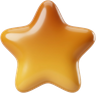
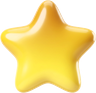
Persuasion tags: brighter, yellower 3D star (less brown)

diff --git a/current-funnel/ptags-exp.css b/current-funnel/ptags-exp.css
@@ -87,7 +87,7 @@
 @media (prefers-reduced-motion:reduce){.rail .pt-sw,.rail .pt-sw i{transition:none}}
 .rail .pt-ugc--off{opacity:.55}
 .p4-list li .p3-ic{color:var(--icon-information,#2c5ef6)}
-.p4-list li .p4-star,.p4-list li .p4-check{width:16px;height:16px;padding:2px;object-fit:contain;filter:drop-shadow(0 1px 1px rgba(60,40,0,.25))} /* 3D icons: the glyph sits smaller inside the 16px box (2026-10-14) */
+.p4-list li .p4-star,.p4-list li .p4-check{width:16px;height:16px;padding:2px;object-fit:contain;filter:drop-shadow(0 1px 1px rgba(150,100,0,.22))} /* 3D icons: the glyph sits smaller inside the 16px box (2026-10-14) */
 .p4-list li .p4-check{padding:2px 2px 3px}
 .p4-card--women .p4-list li .p3-ic{color:var(--fill-woman-primary,#c41685)} /* women mode: Rubicon Fill/Woman/primary */ /* Rubicon Icon/information, the check blue in Option 2 / Experiment */
 .p4-card .c-tag.p4-badge,.o5-card .c-tag.p4-badge{background:var(--fill-info-tertiary,#e4ecfd)} /* Rubicon Fill/Info/tertiary (IONS • Rubicon Figma library; not in this Ions build) */
@@ -194,7 +194,7 @@
 .o5-rtb ul{margin:0;padding:0;list-style:none;display:flex;flex-direction:column}
 .o5-rtb li{display:flex;align-items:center;gap:2px;font-size:11px;line-height:14px;letter-spacing:.05px;color:var(--text-primary,#1d1d1d);min-width:0} /* persuasions in Text/primary */
 .o5-rtb li img{width:16px;height:16px;flex:none}
-.o5-rtb li img.o5-star,.o5-rtb li img.o5-3dcheck{object-fit:contain;padding:2px;filter:drop-shadow(0 1px 1px rgba(60,40,0,.25))}
+.o5-rtb li img.o5-star,.o5-rtb li img.o5-3dcheck{object-fit:contain;padding:2px;filter:drop-shadow(0 1px 1px rgba(150,100,0,.22))}
 .o5-rtb li img.o5-3dcheck{padding:2px 2px 3px}
 .o5-rtb li span{min-width:0;white-space:nowrap;overflow:hidden;text-overflow:ellipsis}
 .o5-r{flex:none;width:100px;box-sizing:border-box;display:flex;flex-direction:column;align-items:flex-end;justify-content:space-between;gap:12px;padding:var(--spacing-lg,12px);border-left:.5px solid #e6e6e6}
